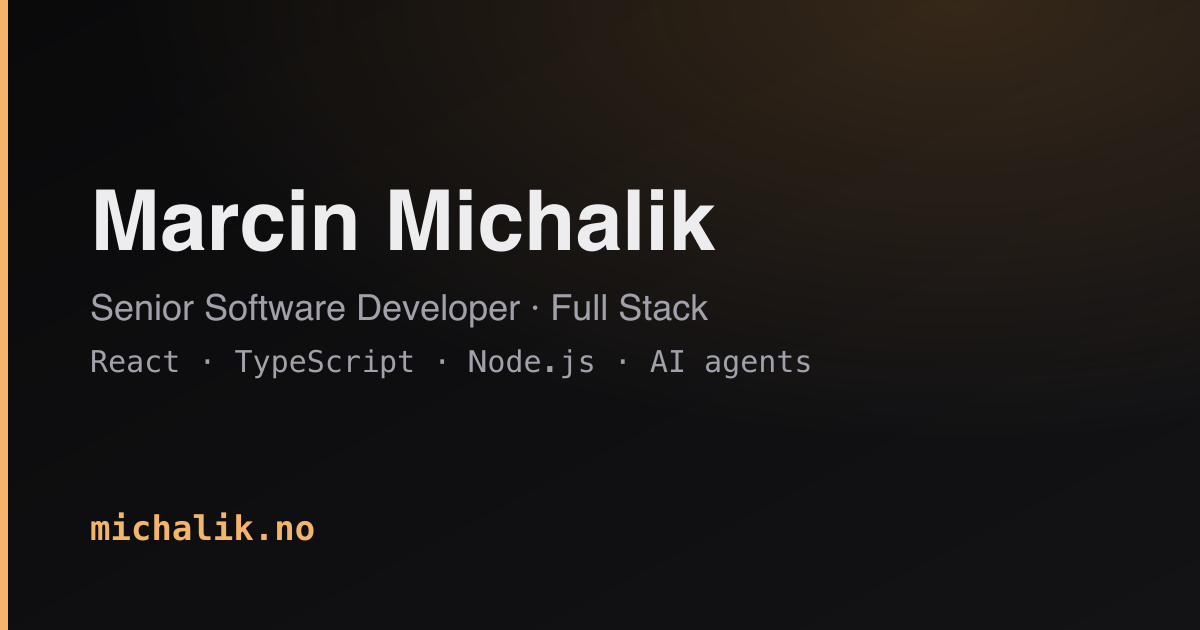
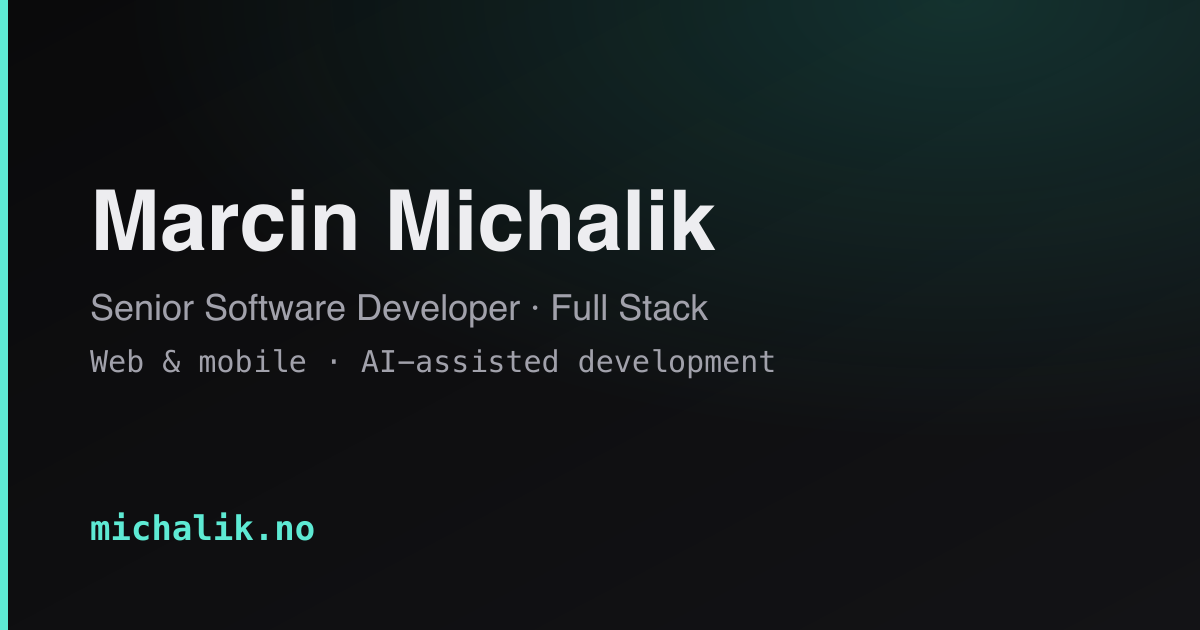
Bring back the teal accent and the original intro
The amber accent clashed with the background and the rewritten intro read worse than the old one. The intro is back to the original with small updates, the rotating line no longer lists a tech stack, and the typing is faster.

diff --git a/src/styles/global.css b/src/styles/global.css
@@ -9,8 +9,8 @@
   --color-border: #26262c;
   --color-fg: #ededf0;
   --color-muted: #a1a1ab;
-  --color-accent: #f2b56b;
-  --color-accent-strong: #e99d45;
+  --color-accent: #5eead4;
+  --color-accent-strong: #2dd4bf;
 
   --font-sans: "Inter", ui-sans-serif, system-ui, -apple-system, "Segoe UI",
     Roboto, Helvetica, Arial, sans-serif;
@@ -233,7 +233,7 @@ section[data-section] {
 
 ::selection {
   background: var(--color-accent);
-  color: #2b1803;
+  color: #04231e;
 }
 
 /* Keep this in @layer base so Tailwind text-color utilities (e.g. text-bg,

diff --git a/src/components/TypingTagline.tsx b/src/components/TypingTagline.tsx
@@ -16,9 +16,9 @@ export default function TypingTagline({ phrases }: Props) {
     const done = text === current;
     const cleared = text === "";
 
-    let delay = deleting ? 20 : 40;
+    let delay = deleting ? 12 : 25;
     if (done && !deleting) delay = 1600;
-    if (cleared && deleting) delay = 200;
+    if (cleared && deleting) delay = 150;
 
     const timer = setTimeout(() => {
       if (!deleting && done) {
